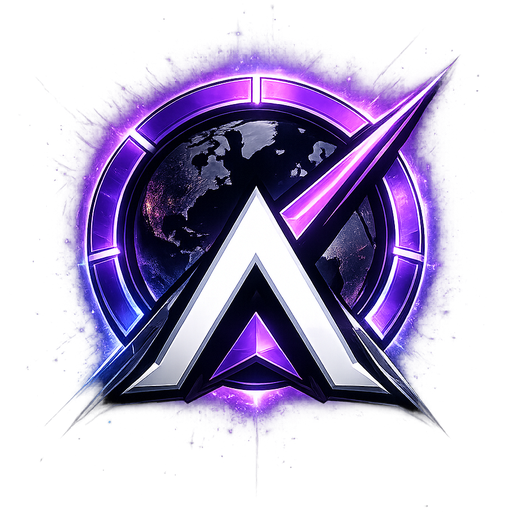
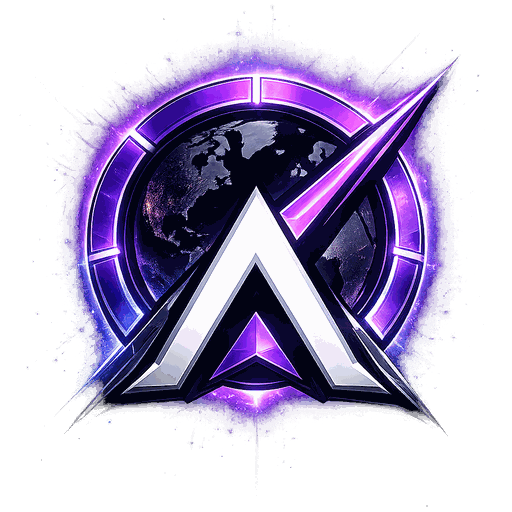
perf: lighter startup and fewer background requests
- Startup logo served as WebP (1.17 MB -> 156 KB); pwa-logo and
  icon-512 recompressed in place (1.5 MB / 380 KB -> 74 KB each)
- One Google Fonts request instead of ~20 (fonts.css listed 17 imports
  twice); every UI and timer font is still available
- Load the spreadsheet parser only when a roadmap file is imported
  (main bundle 1,013 KB -> 679 KB)
- Leaderboard and telemetry polling pause while the World Stage is off
  screen; opening it still refreshes immediately
- Preload feature modules when the browser is idle, not during startup
- Service worker cache v2.0.6

diff --git a/src/styles/core/fonts.css b/src/styles/core/fonts.css
@@ -1,50 +1,8 @@
-@import url('https://fonts.googleapis.com/css2?family=Outfit:wght@200;300;400;600;700;800&display=swap');
-@import url('https://fonts.googleapis.com/css2?family=Fira+Code:wght@400;500;700&display=swap');
-@import url('https://fonts.googleapis.com/css2?family=Plus+Jakarta+Sans:wght@300;500;800&display=swap');
-@import url('https://fonts.googleapis.com/css2?family=Oswald:wght@400;600;700&display=swap');
-@import url('https://fonts.googleapis.com/css2?family=Space+Grotesk:wght@300;400;700&display=swap');
-@import url('https://fonts.googleapis.com/css2?family=Bebas+Neue&display=swap');
-@import url('https://fonts.googleapis.com/css2?family=Orbitron:wght@400;500;700;900&display=swap');
-@import url('https://fonts.googleapis.com/css2?family=Tektur:wght@400;500;700&display=swap');
-@import url('https://fonts.googleapis.com/css2?family=Inter:wght@400;600;800&display=swap');
-@import url('https://fonts.googleapis.com/css2?family=Monoton&display=swap');
-@import url('https://fonts.googleapis.com/css2?family=Black+Ops+One&display=swap');
-@import url('https://fonts.googleapis.com/css2?family=Silkscreen:wght@400;700&display=swap');
-@import url('https://fonts.googleapis.com/css2?family=Bungee+Shade&display=swap');
-@import url('https://fonts.googleapis.com/css2?family=Poppins:wght@300;400;600;700&display=swap');
-@import url('https://fonts.googleapis.com/css2?family=Montserrat:wght@300;400;600;700;800&display=swap');
-@import url('https://fonts.googleapis.com/css2?family=Quicksand:wght@300;400;600;700&display=swap');
-@import url('https://fonts.googleapis.com/css2?family=Syne:wght@400;600;700;800&display=swap');
-
+@import url('https://fonts.googleapis.com/css2?family=Outfit:wght@200;300;400;600;700;800&family=Fira+Code:wght@400;500;700&family=Plus+Jakarta+Sans:wght@300;500;800&family=Oswald:wght@400;600;700&family=Space+Grotesk:wght@300;400;700&family=Bebas+Neue&family=Orbitron:wght@400;500;700;900&family=Tektur:wght@400;500;700&family=Inter:wght@300;400;500;600;700;800&family=Monoton&family=Black+Ops+One&family=Silkscreen:wght@400;700&family=Bungee+Shade&family=Poppins:wght@300;400;600;700&family=Montserrat:wght@300;400;600;700;800&family=Quicksand:wght@300;400;600;700&family=Syne:wght@400;600;700;800&display=swap');
 /**
- * Centralized Font Imports
- * 
- * To comply with CSS standards (PostCSS), all @import statements must 
- * precede any other CSS rules. We centralize them here to avoid 
-@import url('https://fonts.googleapis.com/css2?family=Outfit:wght@200;300;400;600;700;800&display=swap');
-@import url('https://fonts.googleapis.com/css2?family=Fira+Code:wght@400;500;700&display=swap');
-@import url('https://fonts.googleapis.com/css2?family=Plus+Jakarta+Sans:wght@300;500;800&display=swap');
-@import url('https://fonts.googleapis.com/css2?family=Oswald:wght@400;600;700&display=swap');
-@import url('https://fonts.googleapis.com/css2?family=Space+Grotesk:wght@300;400;700&display=swap');
-@import url('https://fonts.googleapis.com/css2?family=Bebas+Neue&display=swap');
-@import url('https://fonts.googleapis.com/css2?family=Orbitron:wght@400;500;700;900&display=swap');
-@import url('https://fonts.googleapis.com/css2?family=Tektur:wght@400;500;700&display=swap');
-@import url('https://fonts.googleapis.com/css2?family=Inter:wght@400;600;800&display=swap');
-@import url('https://fonts.googleapis.com/css2?family=Monoton&display=swap');
-@import url('https://fonts.googleapis.com/css2?family=Black+Ops+One&display=swap');
-@import url('https://fonts.googleapis.com/css2?family=Silkscreen:wght@400;700&display=swap');
-@import url('https://fonts.googleapis.com/css2?family=Bungee+Shade&display=swap');
-@import url('https://fonts.googleapis.com/css2?family=Poppins:wght@300;400;600;700&display=swap');
-@import url('https://fonts.googleapis.com/css2?family=Montserrat:wght@300;400;600;700;800&display=swap');
-@import url('https://fonts.googleapis.com/css2?family=Quicksand:wght@300;400;600;700&display=swap');
-@import url('https://fonts.googleapis.com/css2?family=Syne:wght@400;600;700;800&display=swap');
-
-/**
- * Centralized Font Imports
- * 
- * To comply with CSS standards (PostCSS), all @import statements must 
- * precede any other CSS rules. We centralize them here to avoid 
- * ordering violations in dynamic themes.
+ * Centralized font import: one request covers every UI and timer font
+ * (it was 34 separate, partly duplicated @imports). @import must stay
+ * before any other rule.
  */
 
 /**

diff --git a/app.html b/app.html
@@ -145,7 +145,7 @@
   <link rel="apple-touch-icon" href="/icon-192.png?v=5" />
 
   <!-- ⚡ Core Web Vitals: Preload critical assets for LCP -->
-  <link rel="preload" href="/app-logo.png" as="image" type="image/png" fetchpriority="high" />
+  <link rel="preload" href="/app-logo.webp" as="image" type="image/webp" fetchpriority="high" />
 
   <!-- 🔗 DNS Prefetch: Speed up third-party connections -->
   <link rel="preconnect" href="https://fonts.googleapis.com" />
@@ -156,7 +156,7 @@
   <link rel="dns-prefetch" href="https://flagcdn.com" />
 
   <link
-    href="https://fonts.googleapis.com/css2?family=Outfit:wght@100..900&family=Tektur:wght@400..900&family=Caveat:wght@400..700&family=Architects+Daughter&family=Cormorant+Garamond:ital,wght@0,300;0,400;0,500;0,600;0,700;1,400&family=Orbitron:wght@400..900&family=Rajdhani:wght@400;500;600;700&family=Space+Grotesk:wght@400..700&family=Chakra+Petch:wght@400;500;600;700&family=Bebas+Neue&family=Cinzel:wght@400..900&family=Righteous&display=swap"
+    href="https://fonts.googleapis.com/css2?family=Outfit:wght@100..900&family=Tektur:wght@400..900&family=Caveat:wght@400..700&family=Architects+Daughter&family=Cormorant+Garamond:ital,wght@0,300;0,400;0,500;0,600;0,700;1,400&family=Orbitron:wght@400..900&family=Rajdhani:wght@400;500;600;700&family=Space+Grotesk:wght@400..700&family=Chakra+Petch:wght@400;500;600;700&family=Bebas+Neue&family=Cinzel:wght@400..900&family=Righteous&family=Merriweather:wght@400;700&display=swap"
     rel="stylesheet" />
   <meta name="theme-color" content="#0b0e1a" />
   <meta name="apple-mobile-web-app-capable" content="yes" />
@@ -258,8 +258,6 @@
       }
     }
   </style>
-  <link href="https://fonts.googleapis.com/css2?family=Merriweather:wght@400;700&family=Black+Ops+One&display=swap"
-    rel="stylesheet" />
 </head>
 
 <body class="antialiased selection:bg-indigo-500/30 selection:text-white">
@@ -276,7 +274,7 @@
   <!-- 🚀 Initial Sync Loader -->
   <div id="app-bootstrap-loader">
     <div class="loader-content">
-      <img src="/app-logo.png" class="loader-logo" alt="All Tracker" />
+      <img src="/app-logo.webp" class="loader-logo" alt="All Tracker" />
       <div class="loader-text">Processing… thoda time lagega</div>
       <div class="loader-progress">
         <div class="loader-progress-bar"></div>

diff --git a/src/features/dashboard/leaderboard.ts b/src/features/dashboard/leaderboard.ts
@@ -25,6 +25,14 @@ import { handleGlobalHudDismiss } from './leaderboard.events';
 let worldStageInitialized = false;
 let activityTrackingInitialized = false;
 
+/** Background refreshes only matter while the World Stage is on screen.
+ *  Opening the tab refreshes it immediately (see initWorldStage). */
+function isWorldStageVisible(): boolean {
+  if (document.visibilityState !== 'visible') return false;
+  const pane = document.getElementById('worldStagePane');
+  return !!pane && pane.getClientRects().length > 0;
+}
+
 /**
  * Starts the leaderboard and platform telemetry systems.
  */
@@ -41,10 +49,12 @@ export async function initWorldStage(): Promise<void> {
   };
 
   import('@/services/vault.service').then(({ subscribeToRealtimeTelemetry }) => {
-    subscribeToRealtimeTelemetry(debouncedRefresh);
+    subscribeToRealtimeTelemetry(debouncedRefresh, isWorldStageVisible);
   });
 
-  Registry.setInterval('lb_polling', () => refreshLeaderboard(), 30000);
+  Registry.setInterval('lb_polling', () => {
+    if (isWorldStageVisible()) void refreshLeaderboard();
+  }, 30000);
 
   const closeProfileBtn = document.getElementById('closeProfileModal');
   if (closeProfileBtn) {

diff --git a/src/features/layout/Shell.ts b/src/features/layout/Shell.ts
@@ -150,6 +150,16 @@ export class Shell {
   // ⚡ PRE-LOADED MODULE CACHE: All features are loaded eagerly on first shell init
   // This prevents the lazy-load delay when switching tabs for the first time
   private preloadAllModules(): void {
+    // Wait until the first screen is ready so this doesn't compete with startup.
+    // Opening a tab before then still works: it imports its module on demand.
+    const whenIdle = (fn: () => void) =>
+      'requestIdleCallback' in window
+        ? (window as any).requestIdleCallback(fn, { timeout: 3000 })
+        : setTimeout(fn, 1500);
+    whenIdle(() => this.loadFeatureModules());
+  }
+
+  private loadFeatureModules(): void {
     // Fire all imports in parallel — browser caches them, subsequent calls are instant
     Promise.allSettled([
       import("@/features/tasks/tasks"),

diff --git a/src/services/vault.service.ts b/src/services/vault.service.ts
@@ -148,12 +148,13 @@ export async function loadRoadmapCloud(): Promise<VaultResponse<any> | null> {
 
 export function subscribeToRealtimeTelemetry(
   callback: (payload: any) => void,
+  isActive: () => boolean = () => true,
 ): { unsubscribe: () => void } {
   let lastFingerprint = "";
   // Increased interval to 60s — Global stats don't need sub-10s updates
   const intervalId = window.setInterval(async () => {
-    // Stop polling if tab is backgrounded
-    if (document.visibilityState !== 'visible') return;
+    // Stop polling if tab is backgrounded or the board isn't on screen
+    if (document.visibilityState !== 'visible' || !isActive()) return;
 
     try {
       const [telemetry, leaderboard] = await Promise.all([

diff --git a/src/features/roadmap/roadmap.ts b/src/features/roadmap/roadmap.ts
@@ -1,5 +1,4 @@
 import './roadmap.css';
-import * as XLSX from 'xlsx';
 import { appState } from '@/state/app-state';
 import { saveRoadmapToStorage } from '@/services/data-bridge';
 import { log } from '@/utils/logger.utils';
@@ -422,6 +421,8 @@ function setupEventListeners() {
 async function handleFileUpload(file: File) {
   try {
     const data = await file.arrayBuffer();
+    // The spreadsheet parser is large, so it loads only when a file is imported.
+    const XLSX = await import('xlsx');
     const workbook = XLSX.read(data, { type: 'array' });
     const firstSheetName = workbook.SheetNames[0];
     const worksheet = workbook.Sheets[firstSheetName];

diff --git a/src/styles/features/maamu.css b/src/styles/features/maamu.css
@@ -2,7 +2,7 @@
    MAAMU AI — Premium ChatGPT-Style Interface
    ════════════════════════════════════════════ */
 
-@import url('https://fonts.googleapis.com/css2?family=Inter:wght@300;400;500;600;700;800&display=swap');
+/* Inter (300–800) is loaded once in styles/core/fonts.css. */
 
 .maamu-gpt-container {
   display: flex;

diff --git a/public/sw.js b/public/sw.js
@@ -1,10 +1,10 @@
-const CACHE_NAME = 'alltracker-cache-v2.0.5'; // V2.0.5: New landing page; drop the cached old one
+const CACHE_NAME = 'alltracker-cache-v2.0.6'; // V2.0.6: Smaller logo and icons, combined font requests
 const ASSETS_TO_CACHE = [
   '/',
   '/app',
   '/app.html',
   '/manifest.json',
-  '/app-logo.png',
+  '/app-logo.webp',
   '/icon-192.png'
 ];
 

diff --git a/public/404.html b/public/404.html
@@ -427,7 +427,7 @@
   <div class="container">
     <!-- Brand link -->
     <a href="/" class="brand-link" title="AllTracker Official">
-      <img src="/app-logo.png" alt="AllTracker Logo" />
+      <img src="/app-logo.webp" alt="AllTracker Logo" />
       <span>ALLTRACKER</span>
     </a>
 
